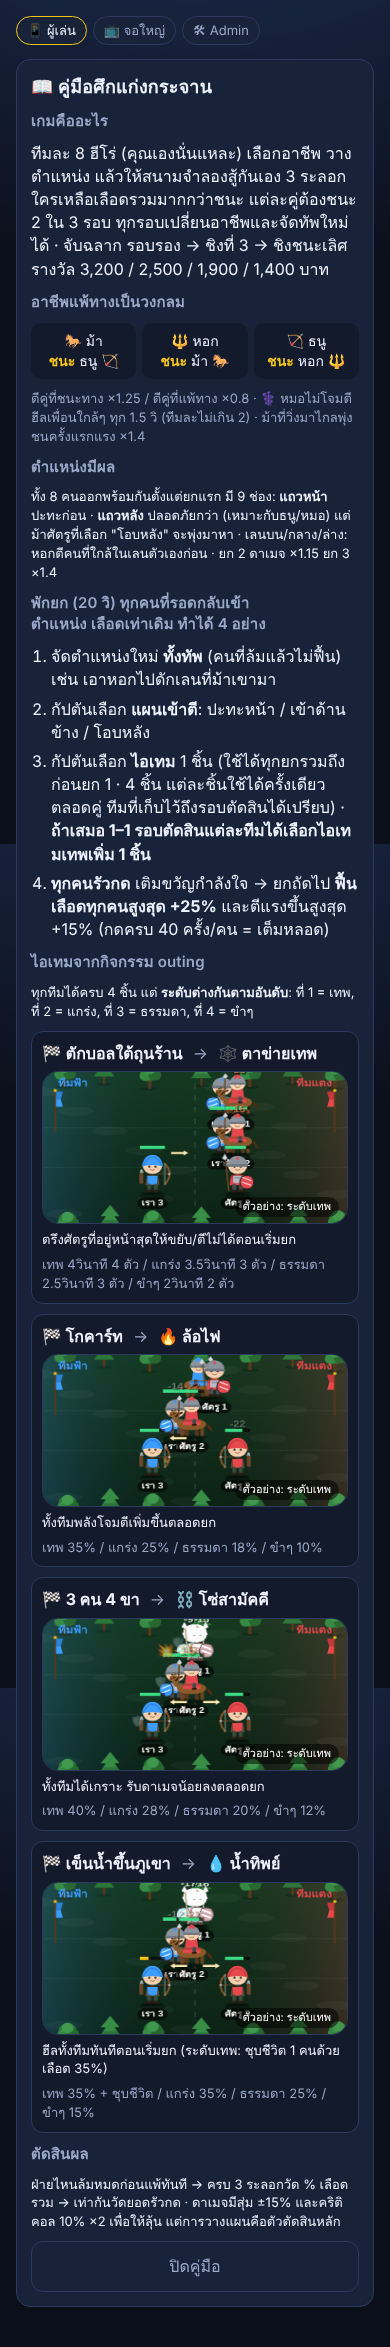
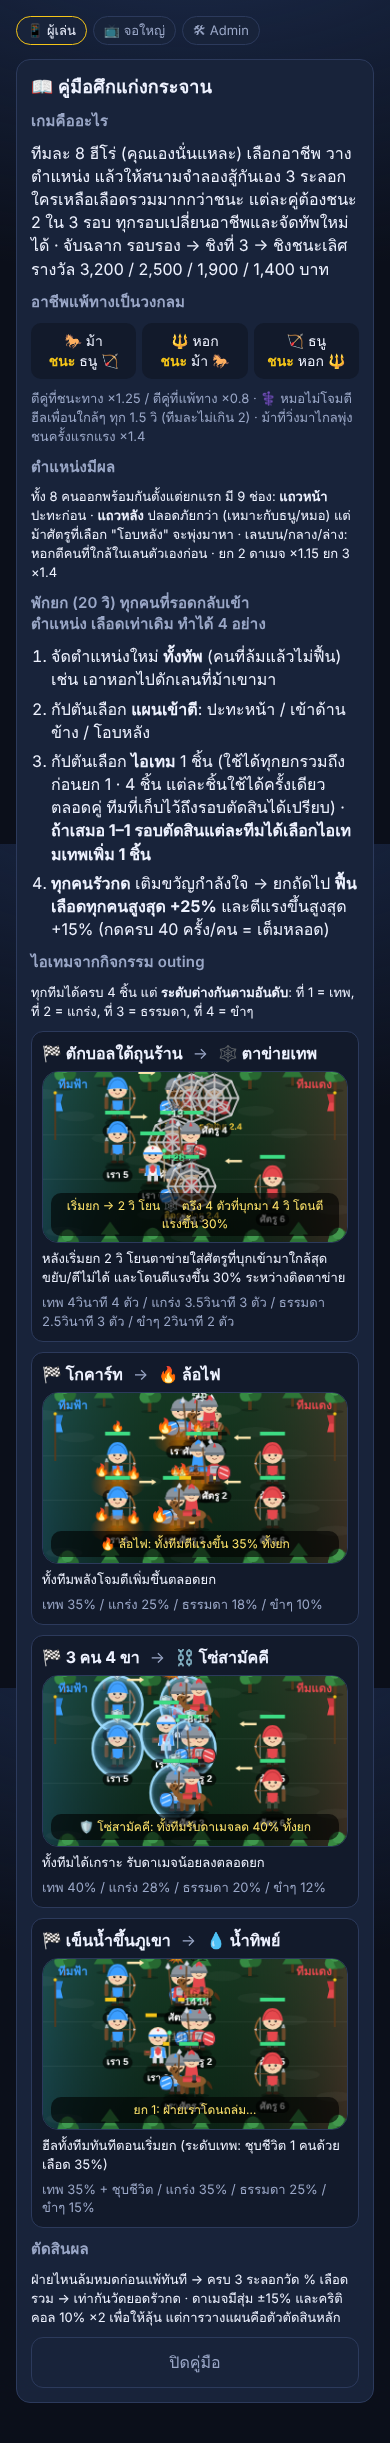
เอฟเฟกต์ไอเทมชัดขึ้น (ตาข่าย/โล่/ไฟ) สาธิตน้ำทิพย์แบบ 2 ยก
Claude-Session: https://claude.ai/code/session_01JbJWCdY4QKd2woKbG6bJFF

diff --git a/js/app.js b/js/app.js
@@ -388,6 +388,8 @@
     const r = new BattleRenderer(canvas, { teams: { A: teamA, B: teamB }, commentaryEl: null, now: () => Date.now() });
     const d = { renderer: r, timer: null, n: 0 };
     demos[itemId] = d;
+    const tag = canvas.parentElement && canvas.parentElement.querySelector('.demo-tag');
+    const setTag = (t) => { if (tag) tag.textContent = t; };
     const loop = () => {
       if (demos[itemId] !== d) return;
       const ros = {}, cellsA = {}, cellsB = {};
@@ -396,10 +398,29 @@
       compA.forEach((c, i) => { const id = 'da' + i; ros[id] = { name: 'เรา ' + (i + 1), cls: c }; cellsA[i] = id; });
       compB.forEach((c, i) => { const id = 'db' + i; ros[id] = { name: 'ศัตรู ' + (i + 1), cls: c }; cellsB[i] = id; });
       let units = Sim.createUnits({ A: { team: teamA, cells: cellsA }, B: { team: teamB, cells: cellsB } }, ros, S);
-      if (itemId === 'water') { units.forEach((u) => { if (u.side === 'A') u.hp = Math.round(u.maxHp * 0.3); }); units[1].alive = false; units[1].hp = 0; units[1].deployed = true; units.forEach((u) => { u.deployed = true; }); }
-      else if (itemId === 'chain') units.forEach((u) => { u.deployed = true; });
-      const inputs = { A: { team: teamA, plan: 'front', item: { id: itemId, tier: 0 }, morale: 0, cells: cellsA }, B: { team: teamB, plan: 'front', item: null, morale: 0, cells: cellsB } };
-      const w = Sim.simulateWave(units, itemId === 'water' ? 1 : 0, inputs, ros, S, 'demo' + itemId + d.n++, 10);
+      const seed = 'demo' + itemId + d.n++;
+      const inpNo = { A: { team: teamA, plan: 'front', item: null, morale: 0, cells: cellsA }, B: { team: teamB, plan: 'front', item: null, morale: 0, cells: cellsB } };
+      const inpYes = { A: { ...inpNo.A, item: { id: itemId, tier: 0 } }, B: inpNo.B };
+      if (itemId === 'water') {
+        // ยก 1: ฝ่ายเราเสียเปรียบ มีคนล้ม → พักยก → ยก 2 ใช้น้ำทิพย์ ฟื้น+ชุบ
+        units.forEach((u) => { if (u.side === 'A') u.hp = Math.round(u.maxHp * 0.45); });
+        const w1 = Sim.simulateWave(units, 0, inpNo, ros, S, seed, 5);
+        setTag('ยก 1: ฝ่ายเราโดนถล่ม…'); r.playWave(w1, Date.now() + 300, 1);
+        d.timer = setTimeout(() => {
+          if (demos[itemId] !== d) return;
+          setTag('⏸ พักยก → กัปตันกดใช้ 💧 น้ำทิพย์ (เทพ)'); r.setStatic(w1.units);
+          d.timer = setTimeout(() => {
+            if (demos[itemId] !== d) return;
+            const w2 = Sim.simulateWave(w1.units, 1, inpYes, ros, S, seed, 7);
+            setTag('ยก 2: ฟื้นเลือด 35% ทั้งทีม + ชุบชีวิตคนที่ล้ม!'); r.playWave(w2, Date.now() + 300, 1);
+            d.timer = setTimeout(loop, 8000);
+          }, 2500);
+        }, 5800);
+        return;
+      }
+      units.forEach((u) => { u.deployed = true; });
+      const w = Sim.simulateWave(units, 0, inpYes, ros, S, seed, 10);
+      setTag({ net: 'เริ่มยก → 2 วิ โยน 🕸 ตรึง 4 ตัวที่บุกมา 4 วิ โดนตีแรงขึ้น 30%', wheel: '🔥 ล้อไฟ: ทั้งทีมตีแรงขึ้น 35% ทั้งยก', chain: '🛡 โซ่สามัคคี: ทั้งทีมรับดาเมจลด 40% ทั้งยก' }[itemId] || '');
       r.playWave(w, Date.now() + 300, 1);
       d.timer = setTimeout(loop, 11500);
     };

diff --git a/js/render.js b/js/render.js
@@ -207,9 +207,31 @@ window.BattleRenderer = (function () {
           if (e.id !== u.id || el < e.t0 || el > e.t0 + e.dur) continue;
           ctx.font = `${R}px sans-serif`; ctx.textAlign = 'center'; ctx.textBaseline = 'middle';
           if (e.k === 'sparkle') ctx.fillText('✨', x + R * 1.1, y - R * 2.2);
-          if (e.k === 'shield') { ctx.globalAlpha = 0.85; ctx.fillText('🛡', x - R * 1.3, y - R * 1.2); ctx.globalAlpha = 1; }
-          if (e.k === 'fire') { const f = 0.8 + 0.2 * Math.sin(el * 12); ctx.font = `${R * f}px sans-serif`; ctx.fillText('🔥', x + R * 1.2, y - R * 1.0); }
-          if (e.k === 'stun') { ctx.font = `${R * 1.1}px sans-serif`; ctx.fillText('🕸', x, y - H + R * 0.2); }
+          if (e.k === 'shield') {
+            const pulse = 1 + 0.06 * Math.sin(el * 5);
+            ctx.save(); ctx.translate(x, y - R * 1.1); ctx.scale(pulse, pulse);
+            const g = ctx.createRadialGradient(0, 0, R * 0.5, 0, 0, R * 2.3); g.addColorStop(0, 'rgba(90,170,255,0.05)'); g.addColorStop(0.8, 'rgba(90,170,255,0.22)'); g.addColorStop(1, 'rgba(140,210,255,0.55)');
+            ctx.fillStyle = g; ctx.beginPath(); ctx.ellipse(0, 0, R * 2.3, R * 2.6, 0, 0, Math.PI * 2); ctx.fill();
+            ctx.strokeStyle = 'rgba(160,220,255,0.95)'; ctx.lineWidth = 2.5; ctx.stroke();
+            ctx.font = `${R * 1.2}px sans-serif`; ctx.fillText('🛡', 0, -R * 2.9); ctx.restore();
+          }
+          if (e.k === 'fire') {
+            const f = 0.85 + 0.15 * Math.sin(el * 14 + x);
+            const g = ctx.createRadialGradient(x, y + R * 0.6, R * 0.3, x, y + R * 0.6, R * 2.4); g.addColorStop(0, 'rgba(255,140,0,0.55)'); g.addColorStop(1, 'rgba(255,60,0,0)');
+            ctx.fillStyle = g; ctx.beginPath(); ctx.ellipse(x, y + R * 0.6, R * 2.4, R * 1.2, 0, 0, Math.PI * 2); ctx.fill();
+            ctx.font = `${R * 1.3 * f}px sans-serif`; ctx.fillText('🔥', x - R * 1.4, y - R * 0.6); ctx.fillText('🔥', x + R * 1.4, y - R * 0.4);
+            ctx.font = `${R * 0.9}px sans-serif`; ctx.fillText('🔥', x, y - H - R * 0.1);
+          }
+          if (e.k === 'stun') {
+            const cy = y - R * 1.3, rr = R * 2.1;
+            ctx.save(); ctx.globalAlpha = 0.95; ctx.strokeStyle = '#ffffff'; ctx.lineWidth = 2;
+            for (let i = 0; i < 8; i++) { const a = i * Math.PI / 4; ctx.beginPath(); ctx.moveTo(x, cy); ctx.lineTo(x + Math.cos(a) * rr, cy + Math.sin(a) * rr); ctx.stroke(); }
+            for (const k of [0.4, 0.7, 1]) { ctx.beginPath(); for (let i = 0; i <= 8; i++) { const a = i * Math.PI / 4; const px = x + Math.cos(a) * rr * k, py = cy + Math.sin(a) * rr * k; if (i === 0) ctx.moveTo(px, py); else ctx.lineTo(px, py); } ctx.stroke(); }
+            ctx.fillStyle = 'rgba(0,0,0,0.25)'; ctx.beginPath(); ctx.arc(x, cy, rr, 0, Math.PI * 2); ctx.fill();
+            ctx.font = `${R * 1.3}px sans-serif`; ctx.textAlign = 'center'; ctx.textBaseline = 'middle'; ctx.fillStyle = '#fff'; ctx.fillText('🕸', x, cy - rr - R * 0.6);
+            const left = Math.max(0, e.t0 + e.dur - el); ctx.font = `800 ${R * 0.8}px Kanit, sans-serif`; ctx.fillStyle = '#ffd23f'; ctx.fillText('ติดตาข่าย ' + left.toFixed(1), x, cy + rr + R * 0.5);
+            ctx.restore();
+          }
           if (e.k === 'ring') { const k = (el - e.t0) / e.dur; ctx.strokeStyle = `rgba(255,255,255,${1 - k})`; ctx.lineWidth = 3; ctx.beginPath(); ctx.ellipse(x, y + R * 0.9, R * (1 + k * 2), R * 0.4 * (1 + k * 2), 0, 0, Math.PI * 2); ctx.stroke(); }
         }
         // HP

diff --git a/index.html b/index.html
@@ -8,22 +8,22 @@
 <link rel="preconnect" href="https://fonts.googleapis.com">
 <link rel="preconnect" href="https://fonts.gstatic.com" crossorigin>
 <link href="https://fonts.googleapis.com/css2?family=Kanit:wght@400;500;600;700;800&family=Sarabun:wght@400;500;700&display=swap" rel="stylesheet">
-<link rel="stylesheet" href="css/style.css?v=20261018180515">
+<link rel="stylesheet" href="css/style.css?v=20261018181359">
 </head>
 <body>
 <div id="app" class="app"><div class="boot">กำลังโหลดสนามรบ…</div></div>
 <div id="toast" class="toast" hidden></div>
 
-<script src="js/vendor/firebase-app-compat.js?v=20261018180515"></script>
-<script src="js/vendor/firebase-database-compat.js?v=20261018180515"></script>
-<script src="js/vendor/morphdom-umd.js?v=20261018180515"></script>
+<script src="js/vendor/firebase-app-compat.js?v=20261018181359"></script>
+<script src="js/vendor/firebase-database-compat.js?v=20261018181359"></script>
+<script src="js/vendor/morphdom-umd.js?v=20261018181359"></script>
 <script src="https://cdnjs.cloudflare.com/ajax/libs/qrcodejs/1.0.0/qrcode.min.js"></script>
-<script src="js/config.js?v=20261018180515"></script>
-<script src="js/data.js?v=20261018180515"></script>
-<script src="js/store.js?v=20261018180515"></script>
-<script src="js/sim.js?v=20261018180515"></script>
-<script src="js/sprites.js?v=20261018180515"></script>
-<script src="js/render.js?v=20261018180515"></script>
-<script src="js/app.js?v=20261018180515"></script>
+<script src="js/config.js?v=20261018181359"></script>
+<script src="js/data.js?v=20261018181359"></script>
+<script src="js/store.js?v=20261018181359"></script>
+<script src="js/sim.js?v=20261018181359"></script>
+<script src="js/sprites.js?v=20261018181359"></script>
+<script src="js/render.js?v=20261018181359"></script>
+<script src="js/app.js?v=20261018181359"></script>
 </body>
 </html>

diff --git a/css/style.css b/css/style.css
@@ -192,5 +192,5 @@ input, select { font: inherit; background: var(--bg2); color: var(--fg); border:
 
 .demo-card { display: flex; flex-direction: column; gap: 6px; padding: 10px; border-radius: 12px; background: var(--bg2); border: 1px solid var(--line); }
 .arena.demo { aspect-ratio: 16 / 9; }
-.demo-tag { position: absolute; right: 8px; bottom: 6px; font-family: var(--font-display); font-size: 11px; color: #fff; background: rgba(0,0,0,.5); padding: 2px 8px; border-radius: 999px; }
+.demo-tag { position: absolute; left: 8px; right: 8px; bottom: 6px; font-family: var(--font-display); font-size: 12px; color: #ffe46b; background: rgba(0,0,0,.6); padding: 4px 10px; border-radius: 10px; text-align: center; }
 .arena .overlay { position: absolute; inset: 0; pointer-events: none; }
